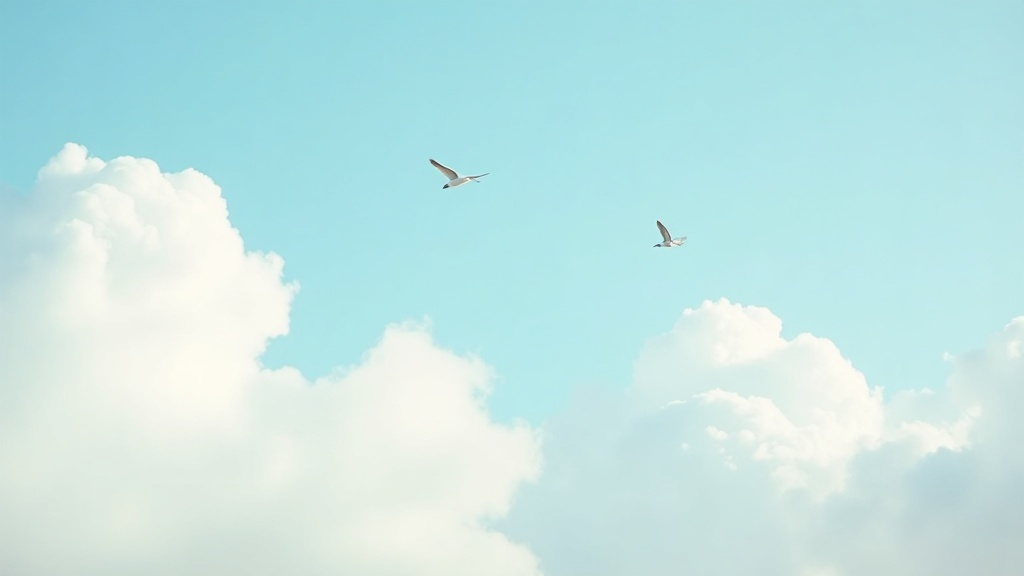
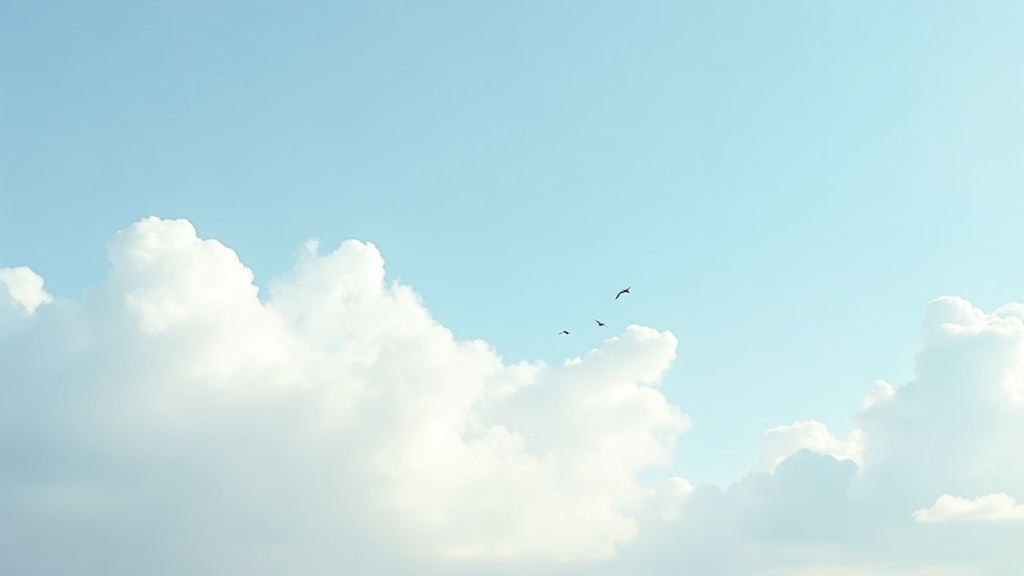
Compact liquid glass navbar and refined hero mascot placement
Separate the bird and hand-mic illustrations into standalone assets
composited over a clean sky background so they never collide with
headline text or the CTA button, and shrink the header back down to
a small floating glass pill with dismissible announcement bar.

diff --git a/src/app/page.tsx b/src/app/page.tsx
@@ -95,14 +95,32 @@ export default function Home() {
       <main className="flex-1 flex flex-col">
         {view === "landing" && (
           <>
-            <section className="relative flex flex-col items-center justify-center overflow-hidden px-6 min-h-screen text-center">
+            <section className="relative flex flex-col items-start justify-center overflow-hidden px-6 sm:px-12 lg:px-20 min-h-[85vh] text-left">
               <HeroBackground />
 
-              <div className="relative max-w-4xl flex flex-col items-center gap-6 animate-fade-in-up">
+              {/* eslint-disable-next-line @next/next/no-img-element */}
+              <img
+                src="/hand-mic.png"
+                alt=""
+                aria-hidden="true"
+                className="pointer-events-none select-none absolute -left-6 sm:left-0 bottom-0 w-[150px] sm:w-[200px] hidden sm:block"
+                style={{ mixBlendMode: "multiply" }}
+              />
+
+              {/* eslint-disable-next-line @next/next/no-img-element */}
+              <img
+                src="/bird-mascot.png"
+                alt=""
+                aria-hidden="true"
+                className="pointer-events-none select-none absolute right-[4%] top-[14%] w-[220px] sm:w-[300px] rotate-[6deg]"
+                style={{ mixBlendMode: "multiply" }}
+              />
+
+              <div className="relative max-w-xl flex flex-col items-start gap-6 animate-fade-in-up">
                 <span className="text-xs font-medium uppercase tracking-[0.2em] text-accent">
                   Voice pattern tracking
                 </span>
-                <h1 className="text-3xl sm:text-6xl lg:text-7xl font-extrabold tracking-tight leading-[1.05]">
+                <h1 className="text-3xl sm:text-5xl font-extrabold tracking-tight leading-[1.08]">
                   <span className="block whitespace-nowrap">Your voice changes</span>
                   <span className="block whitespace-nowrap">
                     before you{" "}
@@ -111,7 +129,7 @@ export default function Home() {
                     </em>
                   </span>
                 </h1>
-                <p className="text-lg text-muted max-w-lg text-balance">
+                <p className="text-lg text-muted max-w-md">
                   Record {SESSION_TAKES} short takes back to back. Sona compares them and builds a
                   detailed picture of your speech patterns.
                 </p>
@@ -125,7 +143,7 @@ export default function Home() {
         )}
 
         {view === "record" && (
-          <section className="relative flex-1 flex flex-col items-center justify-center overflow-hidden px-6 pt-32 pb-16">
+          <section className="relative flex-1 flex flex-col items-center justify-center overflow-hidden px-6 py-16">
             <AmbientGlow />
             <Recorder
               onAnalyze={handleAnalyze}
@@ -137,7 +155,7 @@ export default function Home() {
         )}
 
         {view === "takeComplete" && (
-          <section className="relative flex-1 flex flex-col items-center justify-center overflow-hidden px-6 pt-32 pb-16">
+          <section className="relative flex-1 flex flex-col items-center justify-center overflow-hidden px-6 py-16">
             <AmbientGlow />
             <TakeComplete
               takeIndex={sessionTake}
@@ -149,7 +167,7 @@ export default function Home() {
         )}
 
         {view === "result" && result && (
-          <section className="flex-1 px-6 pt-28 pb-10">
+          <section className="flex-1 px-6 py-10">
             <ResultsView
               current={result.current}
               baseline={result.baseline}
@@ -196,6 +214,7 @@ function HeroBackground() {
         src="/hero-illustration.png"
         alt=""
         className="absolute inset-0 h-full w-full object-cover"
+        style={{ objectPosition: "85% 30%" }}
       />
       <div
         className="absolute inset-x-0 bottom-0 h-24"

diff --git a/src/components/Header.tsx b/src/components/Header.tsx
@@ -1,3 +1,6 @@
+"use client";
+
+import { useState } from "react";
 import Button from "./Button";
 
 interface HeaderProps {
@@ -7,35 +10,62 @@ interface HeaderProps {
 }
 
 export default function Header({ onHome, onStart, showNav }: HeaderProps) {
-  return (
-    <div className="fixed inset-x-0 top-4 z-40 flex justify-center px-4">
-      <header
-        className="flex items-center gap-3 sm:gap-8 rounded-full pl-4 pr-2 py-2 sm:pl-6 sm:pr-2.5 sm:py-2.5"
-        style={{
-          background:
-            "linear-gradient(180deg, rgba(255,255,255,0.72), rgba(255,255,255,0.5))",
-          backdropFilter: "blur(20px) saturate(160%)",
-          WebkitBackdropFilter: "blur(20px) saturate(160%)",
-          boxShadow:
-            "0 1px 1px rgba(255,255,255,0.6) inset, 0 0 0 1px rgba(255,255,255,0.45) inset, 0 12px 30px rgba(31,25,64,0.12)",
-        }}
-      >
-        <button
-          onClick={onHome}
-          className="flex items-center gap-2 text-[15px] font-semibold tracking-tight text-foreground shrink-0"
-        >
-          <span className="flex h-6 w-6 items-center justify-center rounded-full bg-accent">
-            <span className="h-2 w-2 rounded-full bg-white" />
-          </span>
-          <span className="hidden sm:inline">Sona</span>
-        </button>
+  const [announcementDismissed, setAnnouncementDismissed] = useState(false);
 
-        {showNav && (
-          <Button size="md" onClick={onStart}>
-            Start recording
-          </Button>
-        )}
-      </header>
+  return (
+    <div className="sticky top-0 z-40 flex flex-col items-center">
+      {!announcementDismissed && (
+        <div className="relative flex w-full items-center justify-center bg-accent px-10 py-2 text-center text-xs sm:text-sm font-medium text-white">
+          <span>
+            Introducing <strong className="font-semibold">Sona</strong>, voice pattern tracking
+            that runs entirely in your browser.
+          </span>
+          <button
+            onClick={() => setAnnouncementDismissed(true)}
+            aria-label="Dismiss announcement"
+            className="absolute right-4 flex h-5 w-5 items-center justify-center rounded-full text-white/80 transition hover:text-white"
+          >
+            <CloseIcon className="h-3.5 w-3.5" />
+          </button>
+        </div>
+      )}
+
+      <div className="w-full flex justify-center px-4 py-3">
+        <header
+          className="flex items-center gap-3 rounded-full pl-3.5 pr-1.5 py-1.5"
+          style={{
+            background: "linear-gradient(180deg, rgba(255,255,255,0.72), rgba(255,255,255,0.5))",
+            backdropFilter: "blur(20px) saturate(160%)",
+            WebkitBackdropFilter: "blur(20px) saturate(160%)",
+            boxShadow:
+              "0 1px 1px rgba(255,255,255,0.6) inset, 0 0 0 1px rgba(255,255,255,0.45) inset, 0 8px 20px rgba(31,25,64,0.1)",
+          }}
+        >
+          <button
+            onClick={onHome}
+            className="flex items-center gap-1.5 text-sm font-semibold tracking-tight text-foreground"
+          >
+            <span className="flex h-5 w-5 items-center justify-center rounded-full bg-accent">
+              <span className="h-1.5 w-1.5 rounded-full bg-white" />
+            </span>
+            Sona
+          </button>
+
+          {showNav && (
+            <Button size="md" onClick={onStart} className="!px-4 !py-1.5 !text-xs">
+              Start recording
+            </Button>
+          )}
+        </header>
+      </div>
     </div>
+  );
+}
+
+function CloseIcon({ className }: { className?: string }) {
+  return (
+    <svg viewBox="0 0 24 24" fill="none" className={className}>
+      <path d="M6 6l12 12M18 6L6 18" stroke="currentColor" strokeWidth="2" strokeLinecap="round" />
+    </svg>
   );
 }
